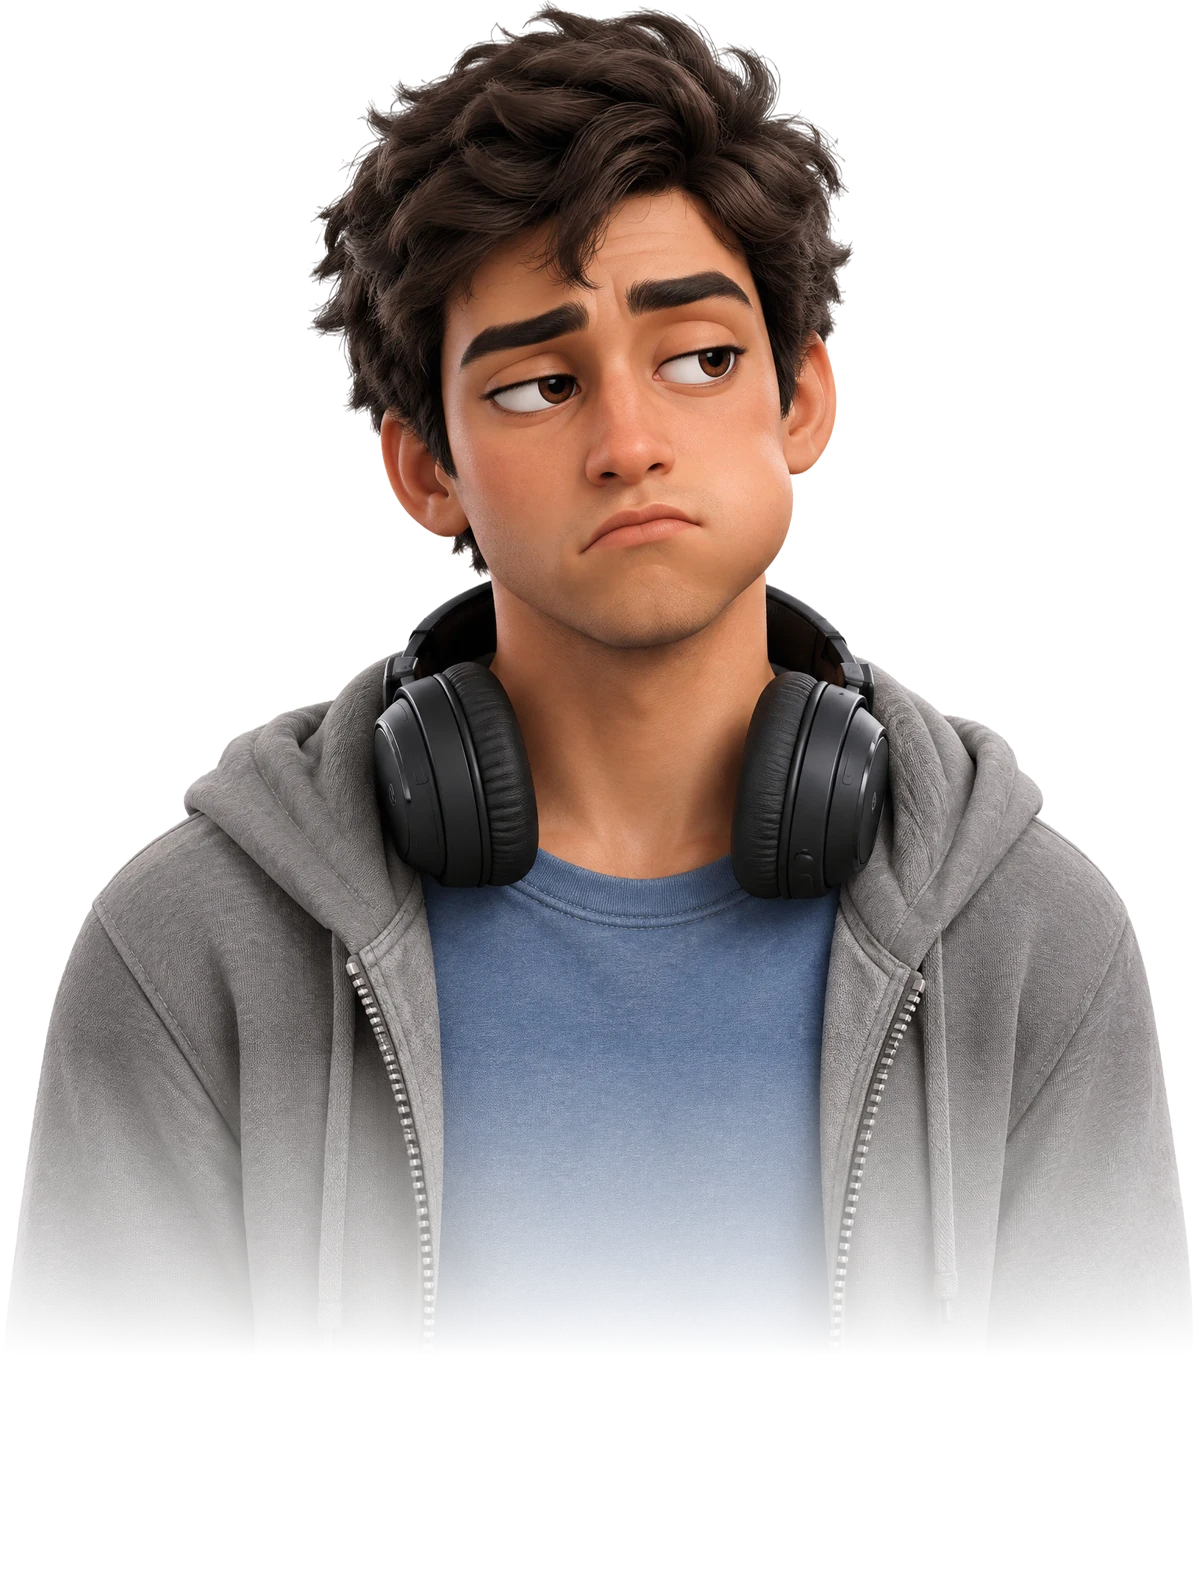
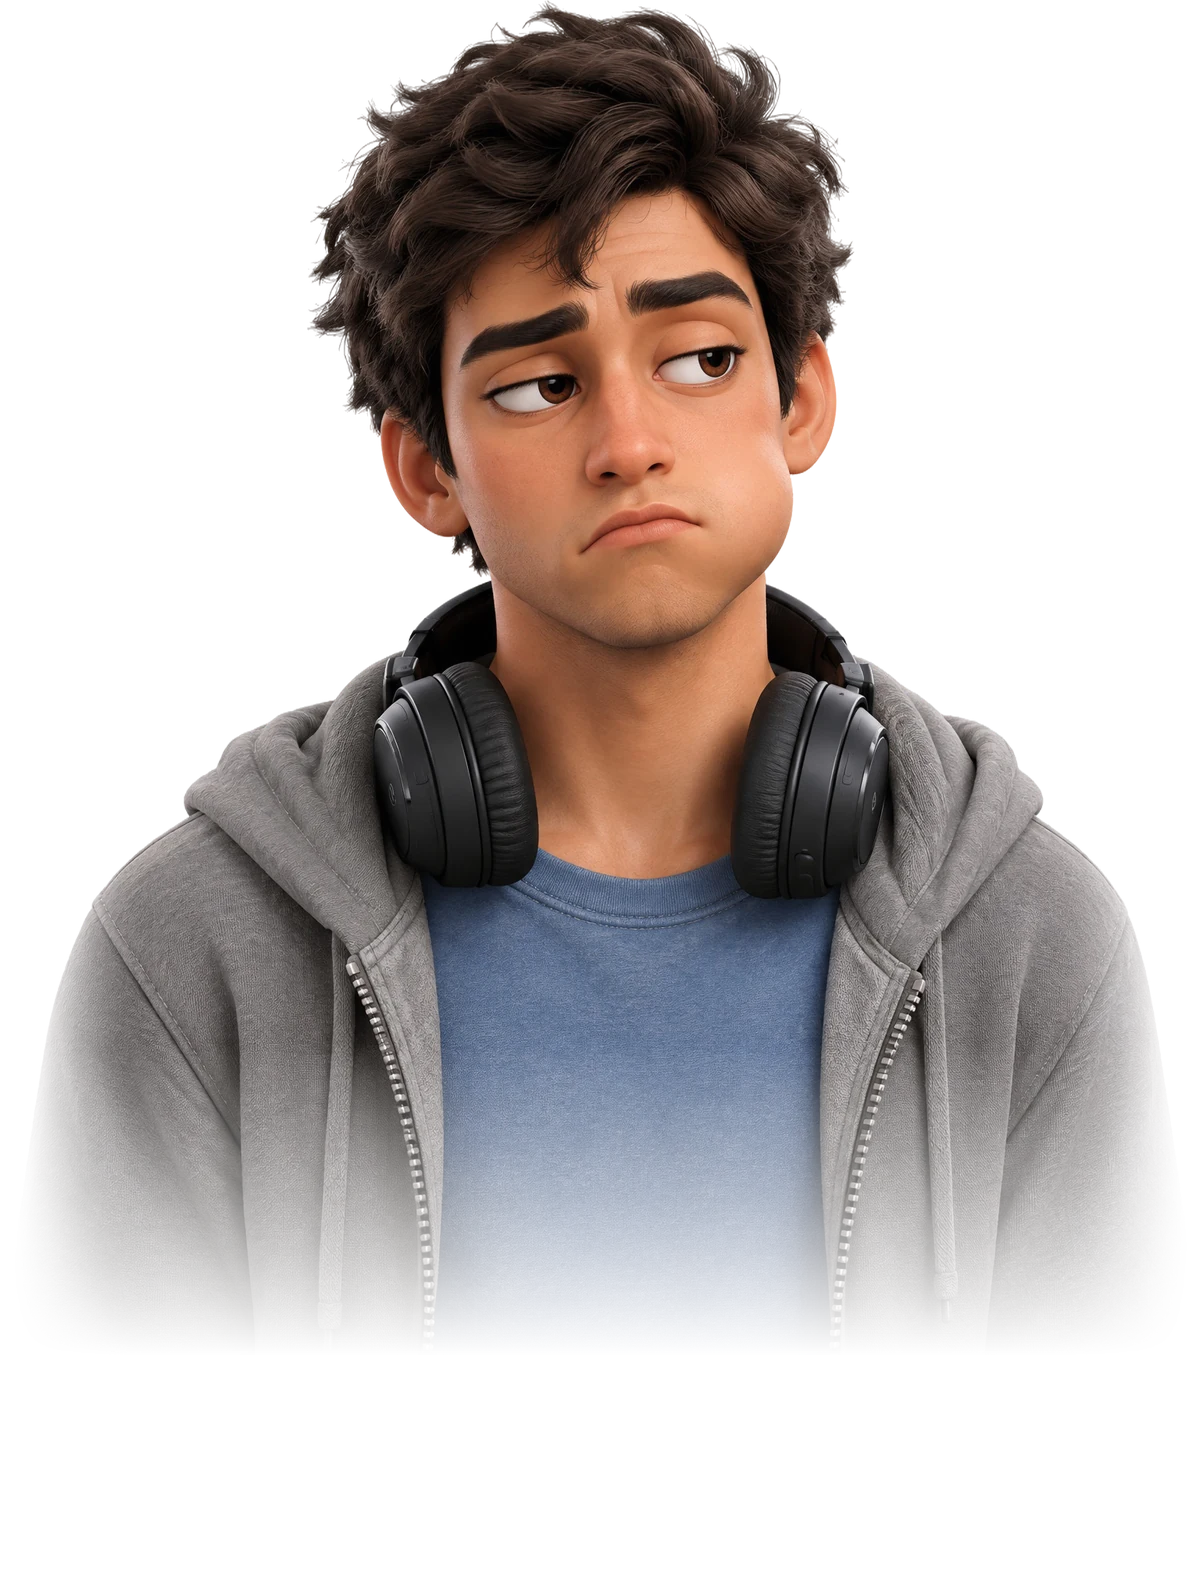
Player portraits fade softly at their sides too (the grinder's shoulders ran to the image edges)

Changed region(s): [[0.8942, 0.5589, 1.0, 0.8074], [0.0, 0.5589, 0.0925, 0.8074]]

diff --git a/src/components/website/players-data.ts b/src/components/website/players-data.ts
@@ -27,7 +27,7 @@ export const PLAYERS: Player[] = [
     title: "The explorer",
     tagline: "Maps every corner before the main path.",
     body: "Opens every menu. Walks the wrong way on purpose. Finds your bugs before QA does.",
-    picture: "/players/explorer.webp",
+    picture: "/players/explorer.webp?v=2",
     traits: traits(0.95, 0.72, 0.55, 0.6),
   },
   {
@@ -35,7 +35,7 @@ export const PLAYERS: Player[] = [
     title: "The grinder",
     tagline: "Runs the same loop until something changes.",
     body: "Same loop, every night. Never reads the tutorial. Notices the second you change the drop rate.",
-    picture: "/players/grinder.webp",
+    picture: "/players/grinder.webp?v=2",
     traits: traits(0.2, 0.96, 0.8, 0.82),
   },
   {
@@ -43,7 +43,7 @@ export const PLAYERS: Player[] = [
     title: "The spender",
     tagline: "Pays the moment the value is clear.",
     body: "Checks the shop before the quest. Buys when the value is obvious. Leaves when the price shows first.",
-    picture: "/players/spender.webp",
+    picture: "/players/spender.webp?v=2",
     traits: traits(0.5, 0.35, 0.18, 0.45),
   },
   {
@@ -51,7 +51,7 @@ export const PLAYERS: Player[] = [
     title: "The one you lose",
     tagline: "Quits at the first wall that feels unfair.",
     body: "Hits the wall at the boss. Tries twice. Closes the app. Your D7 number is made of this player.",
-    picture: "/players/lost.webp",
+    picture: "/players/lost.webp?v=2",
     traits: traits(0.4, 0.15, 0.7, 0.3),
   },
 ];
